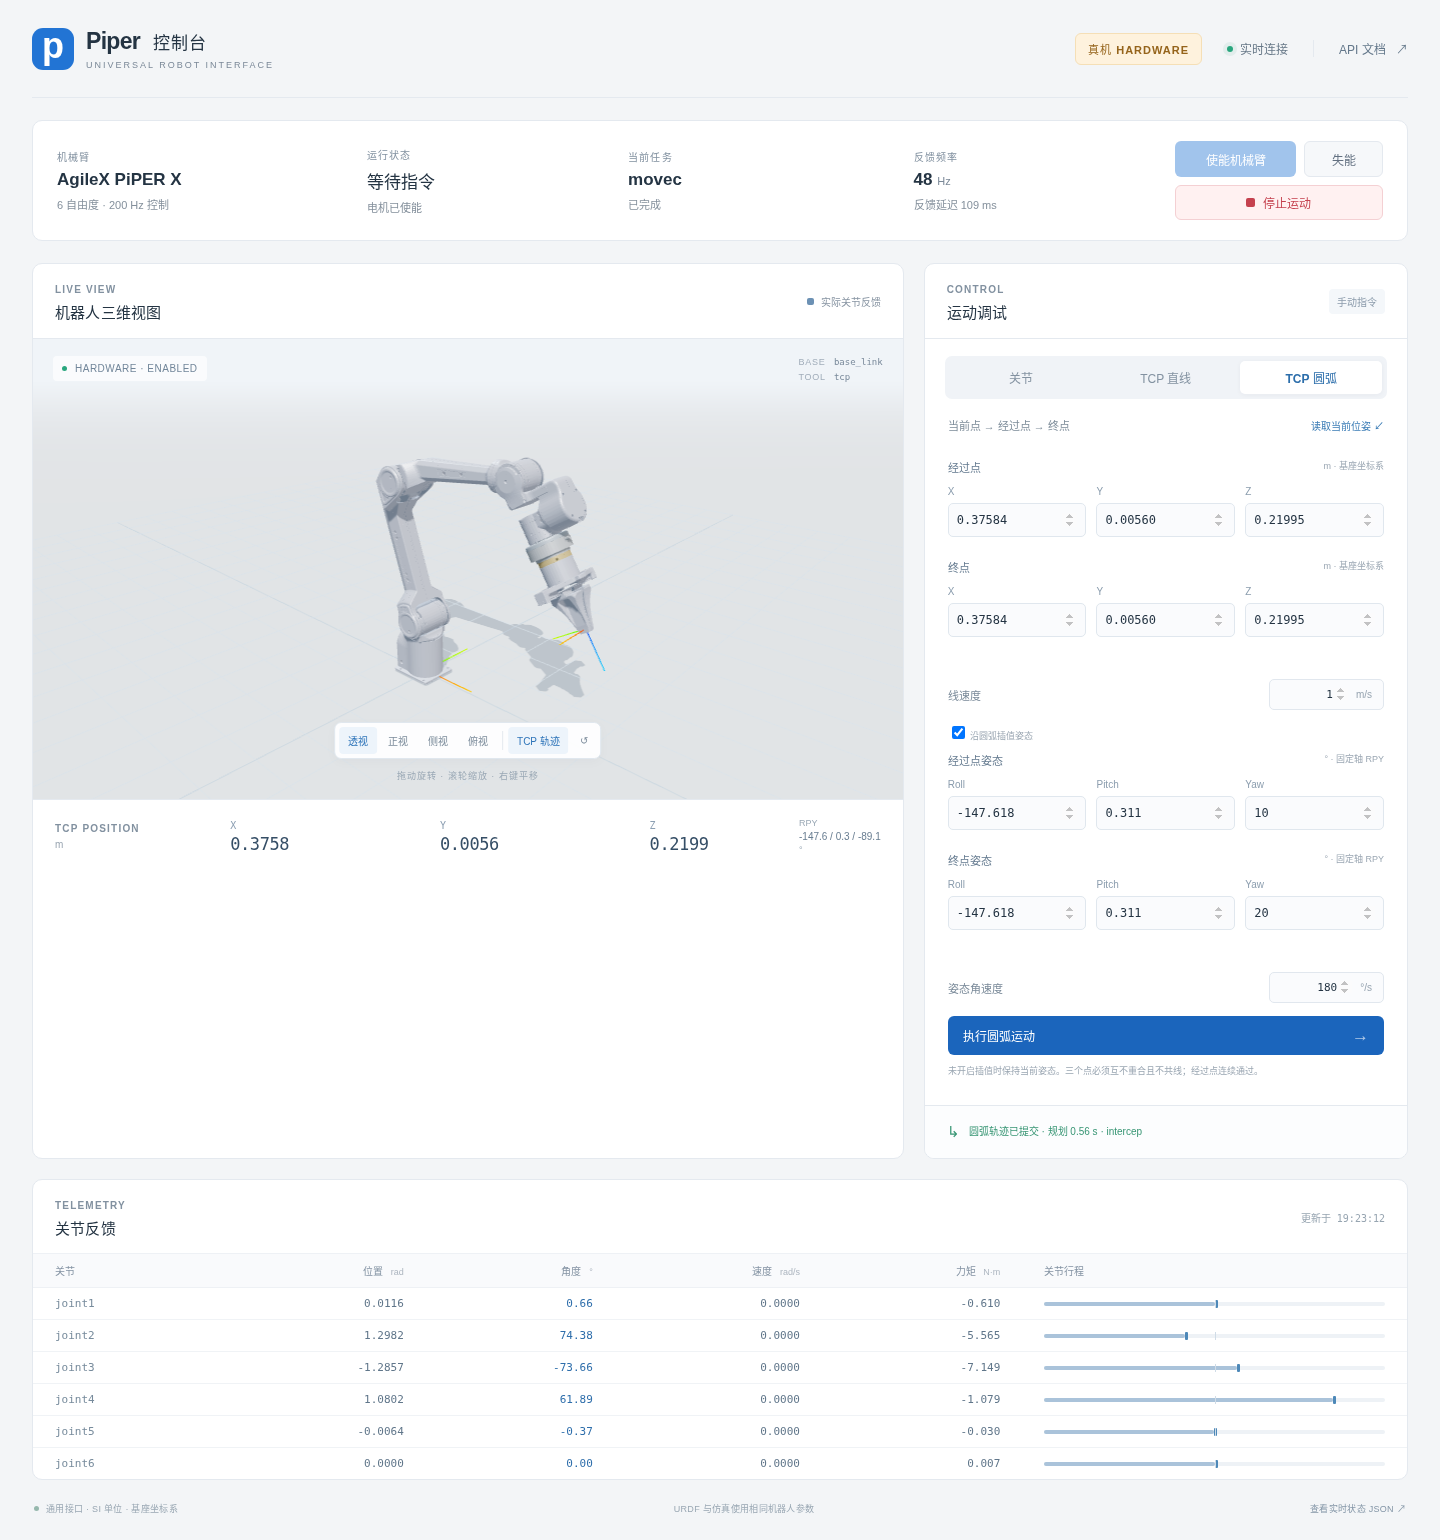
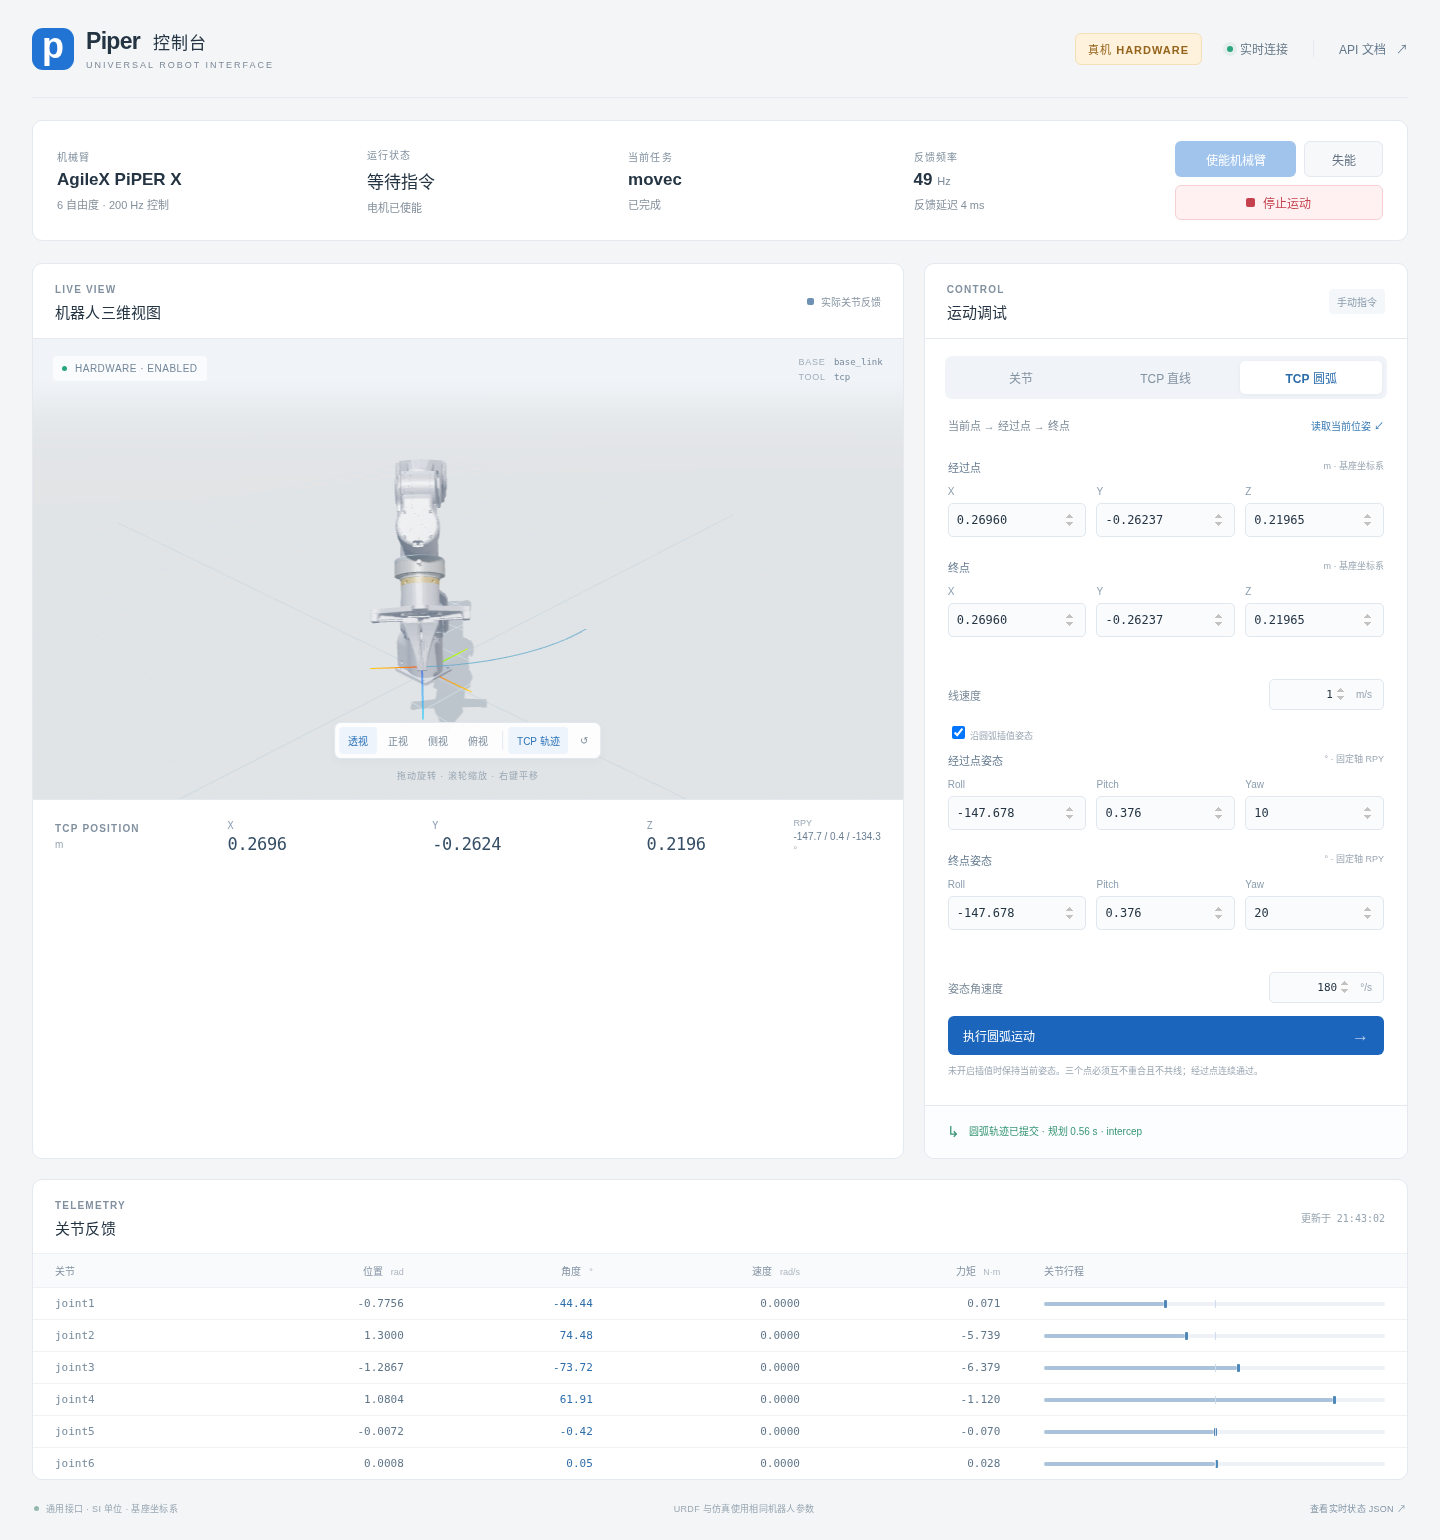
Show endpoint settling and TCP error in the dashboard

diff --git a/piper_control/web/app.js b/piper_control/web/app.js
@@ -148,7 +148,9 @@ function updateState(next) {
   $('motion-kind').textContent = motion.kind || '空闲';
   const motionStatus = {running: '执行中', succeeded: '已完成', completed: '已完成', canceled: '已停止', cancelled: '已停止', failed: '执行失败', aborted: '执行中止', idle: '等待指令'};
   const progress = Number.isFinite(motion.progress) && motion.status === 'running' ? ` · ${(motion.progress * 100).toFixed(0)}%` : '';
-  $('motion-state').textContent = (motionStatus[motion.status] || motion.status || '等待指令') + progress;
+  const settling = motion.status === 'running' && motion.progress >= 1;
+  const endpointError = Number.isFinite(motion.tcp_position_error) ? ` · TCP 偏差 ${(motion.tcp_position_error * 1000).toFixed(2)} mm` : '';
+  $('motion-state').textContent = settling ? '等待停稳' + endpointError : (motionStatus[motion.status] || motion.status || '等待指令') + progress;
   if (motion.error && motion.error !== latestFault) feedback(motion.error, 'error');
   latestFault = motion.error || '';
   const errors = Array.isArray(next.errors) ? next.errors : next.errors ? [next.errors] : [];
